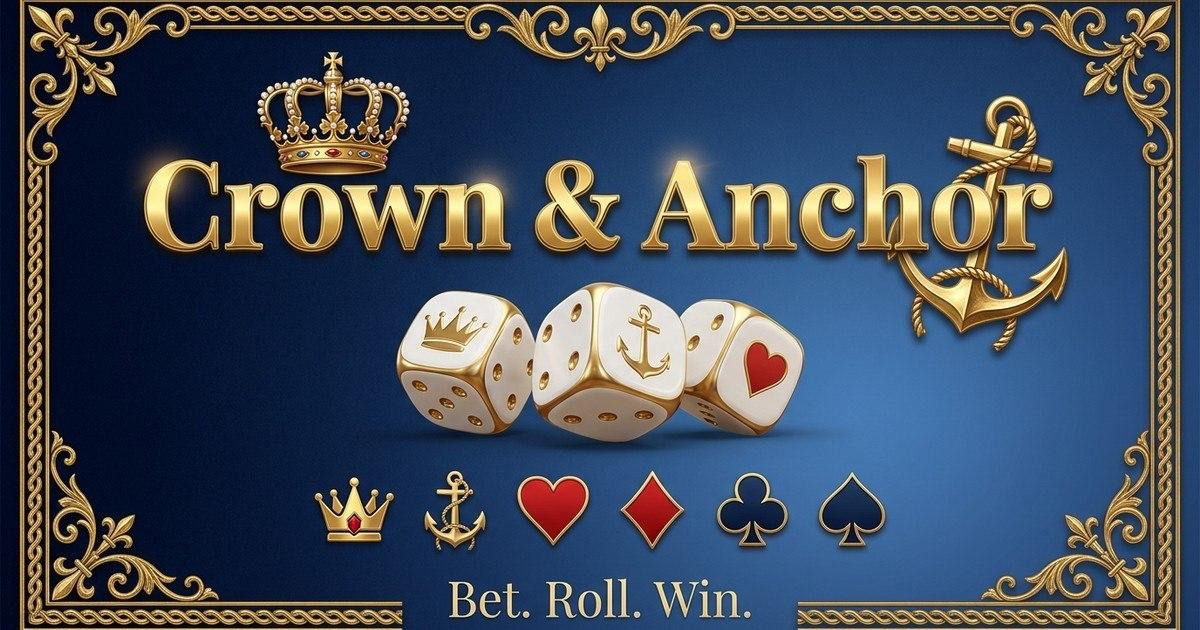
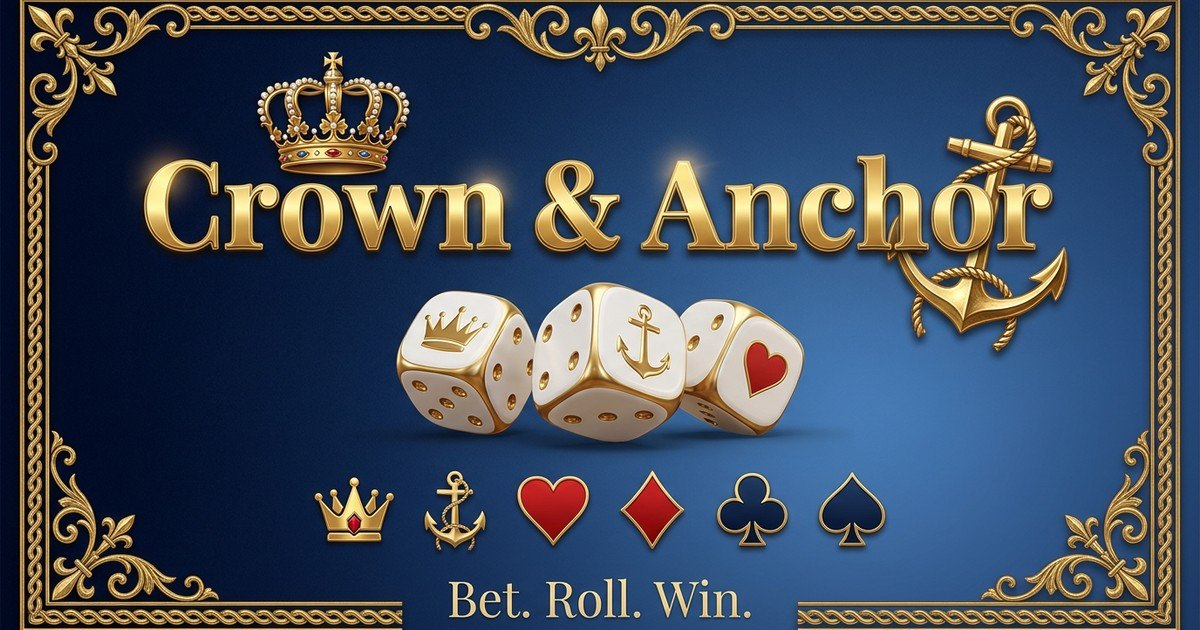
Single-line OG tags + baseline JPEG share image

diff --git a/index.html b/index.html
@@ -4,6 +4,22 @@
 <head>
     <meta charset="UTF-8">
     <meta name="viewport" content="width=device-width, initial-scale=1.0">
+<meta property="og:type" content="website">
+<meta property="og:site_name" content="Crown & Anchor">
+<meta property="og:title" content="Crown & Anchor — Classic Dice Casino Game Online">
+<meta property="og:description" content="Play the classic Crown & Anchor dice game online — bet on symbols, roll dice, win big. Free to play.">
+<meta property="og:url" content="https://codesleeps.github.io/crown-anchor/">
+<meta property="og:image" content="https://codesleeps.github.io/crown-anchor/og-image.jpg?v=3">
+<meta property="og:image:secure_url" content="https://codesleeps.github.io/crown-anchor/og-image.jpg?v=3">
+<meta property="og:image:width" content="1200">
+<meta property="og:image:height" content="630">
+<meta property="og:image:type" content="image/jpeg">
+<meta name="twitter:card" content="summary_large_image">
+<meta name="twitter:title" content="Crown & Anchor — Classic Dice Casino Game Online">
+<meta name="twitter:description" content="Play the classic Crown & Anchor dice game online — bet on symbols, roll dice, win big. Free to play.">
+<meta name="twitter:image" content="https://codesleeps.github.io/crown-anchor/og-image.jpg?v=3">
+<meta name="twitter:image:alt" content="Crown & Anchor — Classic Dice Casino Game Online">
+<meta name="theme-color" content="#111111">
 
     <!-- Primary Meta Tags -->
     <title>Crown & Anchor Game - Classic Dice Casino Game Online</title>
@@ -17,25 +33,23 @@
     <meta name="author" content="Crown & Anchor Game">
 
     <!-- Open Graph / Facebook -->
-    <meta property="og:type" content="website">
-    <meta property="og:url" content="https://codesleeps.github.io/crown-anchor/">
-    <meta property="og:title" content="Crown & Anchor Game - Classic Dice Casino Game Online">
-    <meta property="og:description"
-        content="Play the classic Crown & Anchor dice game online! Bet on symbols, roll dice, and win big. Features tournaments, achievements, and multiplayer modes.">
-    <meta property="og:image" content="https://codesleeps.github.io/crown-anchor/og-image.jpg">
-    <meta property="og:image:secure_url" content="https://codesleeps.github.io/crown-anchor/og-image.jpg">
-    <meta property="og:image:type" content="image/jpeg">
-    <meta property="og:image:width" content="1200">
-    <meta property="og:image:height" content="630">
-    <meta property="og:site_name" content="Crown & Anchor Game">
+    
+    
+    
+    
+    
+    
+    
+    
+    
+    
 
     <!-- Twitter -->
-    <meta name="twitter:card" content="summary_large_image">
-    <meta name="twitter:url" content="https://codesleeps.github.io/crown-anchor/">
-    <meta name="twitter:title" content="Crown & Anchor Game - Classic Dice Casino Game Online">
-    <meta name="twitter:description"
-        content="Play the classic Crown & Anchor dice game online! Bet on symbols, roll dice, and win big. Features tournaments, achievements, and multiplayer modes.">
-    <meta name="twitter:image" content="https://codesleeps.github.io/crown-anchor/og-image.jpg">
+    
+    
+    
+    
+    
 
     <!-- Favicon -->
     <link rel="icon" type="image/x-icon" href="/favicon.ico">
